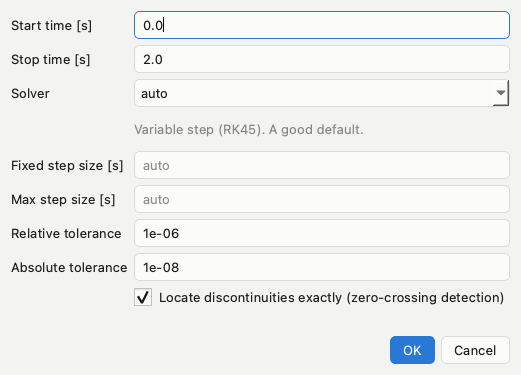
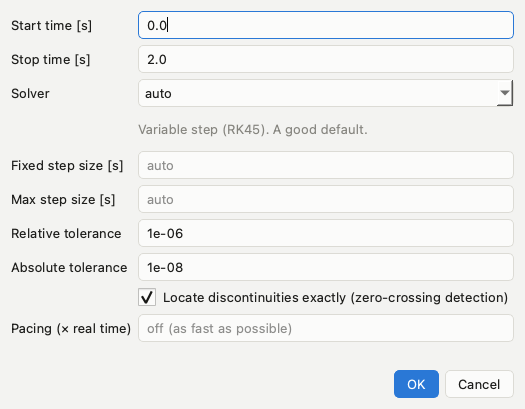
Live scopes while simulating, and simulation pacing (phase 6)
Claude-Session: https://claude.ai/code/session_01VarAEesyLXHz6dcSdpzjd5

diff --git a/src/nervus/sim/simulator.py b/src/nervus/sim/simulator.py
@@ -59,17 +59,54 @@ class _RateScheduler:
             self.counts[k] += 1
 
 
+LIVE_INTERVAL = 0.2
+"""Seconds (wall clock) between live snapshots of the Scope signals."""
+
+
 class _Logger:
-    def __init__(self, model: CompiledModel) -> None:
+    def __init__(
+        self, model: CompiledModel, live: Callable[[SimResult], None] | None = None, live_interval: float | None = None
+    ) -> None:
         self.model = model
         self.t: list[float] = []
         self.data: list[list[list[Array]]] = [[[] for _ in ws] for ws in model.out_widths]
+        self.live = live
+        self.live_interval = LIVE_INTERVAL if live_interval is None else live_interval
+        self._last_live = time.monotonic()
+        self.pacing = 0.0  # simulated seconds per wall-clock second (0: no pacing)
+        self._t0 = 0.0
+        self._wall0 = time.monotonic()
+
+    def start_pacing(self, pacing: float, t0: float) -> None:
+        self.pacing, self._t0, self._wall0 = pacing, t0, time.monotonic()
 
     def record(self, t: float) -> None:
+        if self.pacing > 0:  # wait until the wall clock catches up with the simulation
+            ahead = (t - self._t0) / self.pacing - (time.monotonic() - self._wall0)
+            if ahead > 0:
+                time.sleep(ahead)
         self.t.append(t)
         for i, outs in enumerate(self.model.y):
             for p, y in enumerate(outs):
                 self.data[i][p].append(y.copy())
+        if self.live is not None and time.monotonic() - self._last_live >= self.live_interval:
+            self._last_live = time.monotonic()
+            self.live(self.scope_snapshot())
+
+    def scope_snapshot(self) -> SimResult:
+        """The signals logged so far that feed Scope blocks (for live plots while the simulation runs)."""
+        m = self.model
+        input_keys: dict[str, list[str]] = {}
+        signals: dict[str, Array] = {}
+        for i, (name, b) in enumerate(zip(m.names, m.blocks, strict=True)):
+            if b.type_id != "sinks.scope":
+                continue
+            keys = [f"{m.names[s]}:{p}" for s, p in m.inputs[i]]
+            input_keys[name] = keys
+            for (s, p), key in zip(m.inputs[i], keys, strict=True):
+                rows = self.data[s][p]
+                signals[key] = np.vstack(rows) if rows else np.zeros((0, m.out_widths[s][p]))
+        return SimResult(np.asarray(self.t), signals, input_keys, {}, None)
 
     def result(self, stats: SimStats) -> SimResult:
         m = self.model
@@ -240,6 +277,7 @@ def simulate(
     coverage: Any = None,
     progress: Callable[[float], None] | None = None,
     should_stop: Callable[[], bool] | None = None,
+    live: Callable[[SimResult], None] | None = None,
 ) -> SimResult:
     """Simulate ``diagram`` and return the logged signals.
 
@@ -249,19 +287,32 @@ def simulate(
     ``inputs`` drives the model's top-level In blocks, by name: a :class:`~nervus.core.signals.Signal`, a
     number/vector (constant) or a ``(time, values)`` pair.
     ``progress(t)`` is called after each major step; if ``should_stop()`` returns true the run ends early (used
-    by the GUI's Stop button).
+    by the GUI's Stop button). ``live(partial)`` is called a few times per second with the Scope signals logged so
+    far (for live plots).
     """
     if isinstance(diagram, CompiledModel):
         if params or inputs:
             raise ValueError("params/inputs cannot be used with an already compiled model; pass the Diagram")
         return _simulate_compiled(
-            diagram, t_final, t_start, solver, step, max_step, rtol, atol, settings, progress, should_stop, coverage
+            diagram,
+            t_final,
+            t_start,
+            solver,
+            step,
+            max_step,
+            rtol,
+            atol,
+            settings,
+            progress,
+            should_stop,
+            coverage,
+            live,
         )
     attached = _attach_inputs(diagram, inputs or {})
     try:
         model = compile_diagram(diagram, params)
         return _simulate_compiled(
-            model, t_final, t_start, solver, step, max_step, rtol, atol, settings, progress, should_stop, coverage
+            model, t_final, t_start, solver, step, max_step, rtol, atol, settings, progress, should_stop, coverage, live
         )
     finally:
         for block in attached:
@@ -298,6 +349,7 @@ def _simulate_compiled(
     progress: Callable[[float], None] | None,
     should_stop: Callable[[], bool] | None,
     coverage: Any = None,
+    live: Callable[[SimResult], None] | None = None,
 ) -> SimResult:
     base = settings or model.diagram.settings
     overrides: dict[str, Any] = {
@@ -319,7 +371,8 @@ def _simulate_compiled(
         model.start_coverage(coverage)
         coverage.runs += 1
     wall0 = time.perf_counter()
-    log = _Logger(model)
+    log = _Logger(model, live)
+    log.start_pacing(opts.pacing, opts.t_start)
     t0, tf = opts.t_start, opts.t_final
     zc_info: dict[str, Any] = {"count": 0, "warnings": []}
     if opts.is_fixed_step:

diff --git a/tests/test_simulation.py b/tests/test_simulation.py
@@ -22,6 +22,7 @@ from nervus.blocks import (
     UnitDelay,
     ZeroOrderHold,
 )
+from nervus.core import SimulationSettings
 
 
 @pytest.mark.parametrize("solver", ["auto", "RK23", "DOP853", "LSODA", "BDF", "rk4"])
@@ -250,3 +251,35 @@ def test_result_access(first_order: Diagram, tmp_path) -> None:  # type: ignore[
     assert header.startswith("t,")
     with pytest.raises(KeyError):
         res["missing"]
+
+
+def test_live_scope_snapshots(monkeypatch) -> None:  # type: ignore[no-untyped-def]
+    import nervus.sim.simulator as simulator
+    from nervus.blocks import Gain, Scope, Sine
+
+    monkeypatch.setattr(simulator, "LIVE_INTERVAL", 0.0)  # a snapshot after every step
+    d = Diagram()
+    d.chain(d.add(Sine(), name="s"), d.add(Gain(gain=2.0), name="g"), d.add(Scope(), name="scope"))
+    snaps = []
+    res = simulate(d, 1.0, solver="rk4", step=0.1, live=snaps.append)
+    assert len(snaps) == len(res.t)
+    assert list(snaps[3].input_keys) == ["scope"]  # only the Scope signals
+    assert snaps[3].t.size == 4 and np.array_equal(snaps[-1].inputs("scope")[0], res.inputs("scope")[0])
+
+
+def test_pacing_runs_in_real_time() -> None:
+    import time
+
+    from nervus.blocks import Scope, Sine
+
+    d = Diagram()
+    d.chain(d.add(Sine()), d.add(Scope()))
+    d.settings.pacing = 2.0  # twice real time: 0.6 s of simulation takes 0.3 s
+    t0 = time.monotonic()
+    simulate(d, 0.6, solver="rk4", step=0.05)
+    assert 0.28 <= time.monotonic() - t0 < 2.0
+    assert "pacing" in d.settings.to_dict()
+    d.settings.pacing = 0.0
+    assert "pacing" not in d.settings.to_dict()
+    with pytest.raises(ValueError, match="pacing"):
+        SimulationSettings(pacing=-1.0).validate()

diff --git a/src/nervus/gui/views/settings_dialog.py b/src/nervus/gui/views/settings_dialog.py
@@ -52,6 +52,9 @@ class SettingsDialog(QDialog):
         self.atol = QLineEdit(format_value(settings.atol))
         self.zero_crossing = QCheckBox("Locate discontinuities exactly (zero-crossing detection)")
         self.zero_crossing.setChecked(settings.zero_crossing)
+        self.pacing = QLineEdit(format_value(settings.pacing) if settings.pacing else "")
+        self.pacing.setPlaceholderText("off (as fast as possible)")
+        self.pacing.setToolTip("1 = real time, 0.5 = half speed; to watch live scopes or to run against hardware")
         self.error = QLabel()
         self.error.setObjectName("error")
         self.error.setWordWrap(True)
@@ -66,6 +69,7 @@ class SettingsDialog(QDialog):
         form.addRow("Relative tolerance", self.rtol)
         form.addRow("Absolute tolerance", self.atol)
         form.addRow("", self.zero_crossing)
+        form.addRow("Pacing (× real time)", self.pacing)
         buttons = QDialogButtonBox(QDialogButtonBox.StandardButton.Ok | QDialogButtonBox.StandardButton.Cancel)
         buttons.accepted.connect(self._accept)
         buttons.rejected.connect(self.reject)
@@ -104,6 +108,7 @@ class SettingsDialog(QDialog):
                 rtol=self._num(self.rtol) or 0.0,
                 atol=self._num(self.atol) or 0.0,
                 zero_crossing=self.zero_crossing.isChecked(),
+                pacing=self._num(self.pacing, optional=True) or 0.0,
             )
             s.validate()
         except ValueError as exc:

diff --git a/src/nervus/gui/controllers/simulation_controller.py b/src/nervus/gui/controllers/simulation_controller.py
@@ -17,6 +17,7 @@ from nervus.sim import CompiledModel, SimResult, compile_diagram, simulate
 
 class _Worker(QObject):
     progress = Signal(float)
+    partial = Signal(object)  # SimResult with the Scope signals so far
     finished = Signal(object)  # SimResult
     failed = Signal(str, tuple)
 
@@ -36,7 +37,11 @@ class _Worker(QObject):
     def run(self) -> None:
         try:
             result = simulate(
-                self.model, settings=self.settings, progress=self._on_progress, should_stop=self.stop.is_set
+                self.model,
+                settings=self.settings,
+                progress=self._on_progress,
+                should_stop=self.stop.is_set,
+                live=self.partial.emit,
             )
         except (NervusError, ValueError) as exc:
             blocks = getattr(exc, "blocks", ())
@@ -91,6 +96,7 @@ class SimulationController(QObject):
         worker.moveToThread(thread)
         thread.started.connect(worker.run)
         worker.progress.connect(self.sim_model.set_progress)
+        worker.partial.connect(self.sim_model.set_live_result)
         worker.finished.connect(self._on_finished)
         worker.failed.connect(self._on_failed)
         worker.finished.connect(thread.quit)

diff --git a/src/nervus/gui/views/main_window.py b/src/nervus/gui/views/main_window.py
@@ -808,6 +808,7 @@ class MainWindow(QMainWindow):
         self.stop_time.setEnabled(not running)
         if running:
             self.status_label.setText("Simulating…")
+            self._open_scopes()  # at the start, so they plot live
         elif state in (SimulationState.FINISHED, SimulationState.STOPPED):
             res = self.sim_model.result
             info = ""
@@ -819,12 +820,12 @@ class MainWindow(QMainWindow):
             if res is not None and res.stats is not None and res.stats.warnings:
                 self.sim_model.set_error("Warning: " + "; ".join(res.stats.warnings), ())
                 self.diagnostics_dock.show()
-            self._open_scopes_after_run()
+            self._open_scopes()
         elif state is SimulationState.FAILED:
             self.status_label.setText("Simulation failed — see Diagnostics.")
             self.diagnostics_dock.show()
 
-    def _open_scopes_after_run(self) -> None:
+    def _open_scopes(self) -> None:
         """Open every scope the first time a model runs, like Simulink's 'open at simulation start'."""
         if self.scopes:
             return

diff --git a/src/nervus/core/settings.py b/src/nervus/core/settings.py
@@ -30,6 +30,9 @@ class SimulationSettings:
     atol: float = 1e-8
     zero_crossing: bool = True
     """Locate discontinuities (saturation limits, switches, ...) exactly with variable-step solvers."""
+    pacing: float = 0.0
+    """Run no faster than ``pacing`` × real time (1 = real time, 0.5 = half speed), e.g. to watch live scopes or
+    to run a plant against real hardware. 0: as fast as possible."""
 
     @property
     def method(self) -> str:
@@ -52,9 +55,14 @@ class SimulationSettings:
             raise ValueError("max_step must be > 0")
         if self.rtol <= 0 or self.atol <= 0:
             raise ValueError("tolerances must be > 0")
+        if not (self.pacing >= 0 and math.isfinite(self.pacing)):
+            raise ValueError("pacing must be >= 0 (0 = as fast as possible)")
 
     def to_dict(self) -> dict[str, Any]:
-        return asdict(self)
+        d = asdict(self)
+        if not self.pacing:
+            del d["pacing"]  # the default; keeps older model files unchanged
+        return d
 
     @classmethod
     def from_dict(cls, data: dict[str, Any]) -> SimulationSettings:

diff --git a/tests/gui/test_window.py b/tests/gui/test_window.py
@@ -75,3 +75,20 @@ def test_help_browser_has_every_block(window) -> None:  # type: ignore[no-untype
     for type_id in block_types():
         assert f"block:{type_id}" in help_._pages
     assert "Gain" in help_.text.toPlainText()
+
+
+def test_scopes_update_live(window, qtbot, monkeypatch) -> None:  # type: ignore[no-untyped-def]
+    import nervus.sim.simulator as simulator
+
+    monkeypatch.setattr(simulator, "LIVE_INTERVAL", 0.0)
+    window.files.open(EXAMPLES / "mass_spring_damper_pid.nervus")
+    seen: list[int] = []
+    window.sim_model.liveResult.connect(lambda r: seen.append(r.t.size))
+    with qtbot.waitSignal(
+        window.sim_model.stateChanged, timeout=20000, check_params_cb=lambda s: s is SimulationState.FINISHED
+    ):
+        assert window.simulation.run()
+        assert window.scopes, "scopes open when the simulation starts"
+    assert len(seen) > 5 and seen == sorted(seen)  # growing partial results arrived before the end
+    scope = next(iter(window.scopes.values()))
+    assert len(scope._t) == len(window.sim_model.result.t)  # then the full result

diff --git a/src/nervus/gui/models/simulation_model.py b/src/nervus/gui/models/simulation_model.py
@@ -32,6 +32,7 @@ class SimulationModel(QObject):
     runsChanged = Signal()
     progressChanged = Signal(float)  # fraction 0..1
     resultChanged = Signal(object)  # SimResult | None
+    liveResult = Signal(object)  # SimResult: the Scope signals so far, while a simulation runs
     errorOccurred = Signal(str, tuple)  # message, block names
 
     def __init__(self, parent: QObject | None = None) -> None:
@@ -70,6 +71,11 @@ class SimulationModel(QObject):
     def set_result(self, result: SimResult | None) -> None:
         self._result = result
         self.resultChanged.emit(result)
+
+    def set_live_result(self, partial: SimResult) -> None:
+        """Scope signals logged so far by a running simulation (not stored; the final result follows)."""
+        if self.is_running:
+            self.liveResult.emit(partial)
 
     def add_run(self, result: SimResult, label: str | None = None) -> Run:
         self._counter += 1

diff --git a/src/nervus/gui/views/scope_window.py b/src/nervus/gui/views/scope_window.py
@@ -14,7 +14,7 @@ from nervus.sim import SimResult
 
 
 class ScopeWindow(QWidget):
-    """One window per Scope block. Updates automatically after each run.
+    """One window per Scope block. Updates live while the simulation runs, and with the result of each run.
 
     Series colours come from the theme's categorical palette in a fixed order: input 1 is always the first
     colour. A legend is shown when there is more than one series.
@@ -56,6 +56,7 @@ class ScopeWindow(QWidget):
         self._t = np.zeros(0)
 
         sim.resultChanged.connect(self._on_result)
+        sim.liveResult.connect(self._on_result)  # live while the simulation runs
         ThemeManager.instance().themeChanged.connect(self._apply_theme)
         self._apply_theme(current_theme())
         self._on_result(sim.result)

diff --git a/docs/app-help/simulation.md b/docs/app-help/simulation.md
@@ -26,6 +26,13 @@ When a Saturation hits its limit, a Switch changes input or a comparison flips, 
 were found. If a block chatters back and forth along a limit, detection is turned off for it and a warning
 appears in Diagnostics. You can switch the feature off in Simulation Settings.
 
+## Pacing
+
+A simple model simulates much faster than real time, so a live scope only shows the end. Set **Pacing** in
+Simulation Settings to run no faster than that multiple of real time: 1 = real time, 0.5 = half speed, 10 =
+ten times faster. Leave it empty to run as fast as possible (the default). In Python:
+`d.settings.pacing = 1.0`.
+
 Use **Stop Simulation** to end a run when a condition becomes true, and **Assertion** to fail the run when a
 condition that must always hold becomes false.
 
@@ -37,7 +44,7 @@ compute a new output every *T* seconds and hold it in between, just like a task 
 
 ## Scopes
 
-Every Scope opens after the first run. Each input gets its own colour, always in the same order. Hover over
+Every Scope opens when the first run starts and **plots live** while the simulation runs. Each input gets its own colour, always in the same order. Hover over
 the plot to read values at that time. Drag to pan, scroll to zoom, and press *Autoscale* to reset.
 *Show samples* marks the computed points, which is useful for discrete signals.
 

diff --git a/src/nervus/gui/resources/help/simulation.md b/src/nervus/gui/resources/help/simulation.md
@@ -26,6 +26,13 @@ When a Saturation hits its limit, a Switch changes input or a comparison flips, 
 were found. If a block chatters back and forth along a limit, detection is turned off for it and a warning
 appears in Diagnostics. You can switch the feature off in Simulation Settings.
 
+## Pacing
+
+A simple model simulates much faster than real time, so a live scope only shows the end. Set **Pacing** in
+Simulation Settings to run no faster than that multiple of real time: 1 = real time, 0.5 = half speed, 10 =
+ten times faster. Leave it empty to run as fast as possible (the default). In Python:
+`d.settings.pacing = 1.0`.
+
 Use **Stop Simulation** to end a run when a condition becomes true, and **Assertion** to fail the run when a
 condition that must always hold becomes false.
 
@@ -37,7 +44,7 @@ compute a new output every *T* seconds and hold it in between, just like a task 
 
 ## Scopes
 
-Every Scope opens after the first run. Each input gets its own colour, always in the same order. Hover over
+Every Scope opens when the first run starts and **plots live** while the simulation runs. Each input gets its own colour, always in the same order. Hover over
 the plot to read values at that time. Drag to pan, scroll to zoom, and press *Autoscale* to reset.
 *Show samples* marks the computed points, which is useful for discrete signals.
 

diff --git a/docs/editor.md b/docs/editor.md
@@ -144,14 +144,17 @@ In Python: `block.meta["vertical"] = True` (with `flipped` for upwards), `block.
 ## Running a simulation
 
 Press **▶ Run** (⌘R / Ctrl+R / F5). The simulation runs in the background, so the window stays responsive,
-and **■ Stop** ends it early. Every Scope opens after the first run. Hover over a plot to read the values
-at that time:
+and **■ Stop** ends it early. Every Scope opens when the first run starts and plots live while the simulation
+runs. Hover over a plot to read the values at that time:
 
 ![A scope window showing the throttle-control response](images/scope.png)
 
 Solver, step size and tolerances are under **Simulation → Simulation Settings…** (⌘E):
 
 ![The simulation settings dialog](images/settings.png)
+
+**Pacing** runs the simulation no faster than a multiple of real time (1 = real time), so live scopes of a
+fast model can be watched; leave it empty to run as fast as possible.
 
 ## Built-in help
 
